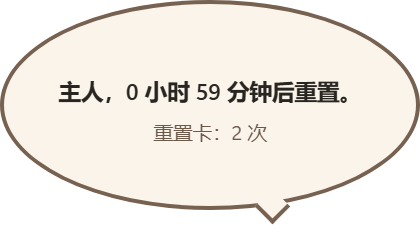
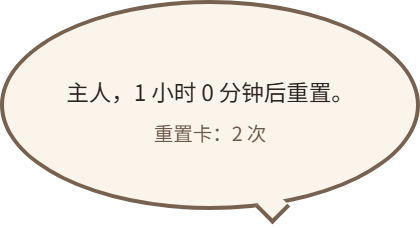
第二段对话仅显示节奏提醒并统一思源黑体

Changed region(s): [[0.1238, 0.3377, 0.8357, 0.4605], [0.3714, 0.5219, 0.5262, 0.6447], [0.5571, 0.5526, 0.65, 0.6447]]

diff --git a/desktop/ui/style.css b/desktop/ui/style.css
@@ -1,6 +1,6 @@
 :root{
   color-scheme:var(--color-scheme);
-  --font-system:-apple-system,BlinkMacSystemFont,"SF Pro Text","Segoe UI Variable Text","Segoe UI","Microsoft YaHei UI","PingFang SC",sans-serif;
+  --font-system:"Noto Sans SC","Segoe UI Variable Text","Segoe UI","PingFang SC","Microsoft YaHei UI",sans-serif;
   --space-1:4px;--space-2:8px;--space-3:12px;--space-4:16px;--space-5:20px;--space-6:24px;
   --radius-widget:12px;--radius-panel:14px;--radius-card:10px;--radius-control:8px;--radius-badge:6px;--radius-track:3px;
   --ease:cubic-bezier(.32,.72,0,1);--duration:200ms;--duration-hover:150ms;--duration-panel:240ms;
@@ -13,9 +13,9 @@
   --shadow-card:0 1px 2px rgba(0,0,0,.04),0 4px 12px rgba(0,0,0,.06);
   --shadow-panel:0 8px 32px rgba(0,0,0,.12);--shadow-character:rgba(0,0,0,.10);
 }
-html,body{margin:0;width:100%;height:100%;overflow:hidden;background:var(--clear);user-select:none;font:400 13px/1.5 var(--font-system);color:var(--text-primary);font-variant-numeric:tabular-nums}
+html,body{margin:0;width:100%;height:100%;overflow:hidden;background:var(--clear);user-select:none;font:400 13px/1.5 var(--font-system);color:var(--text-primary);font-variant-numeric:tabular-nums;font-synthesis:none}
 [hidden]{display:none!important}
-button,input,select{font:inherit;color:inherit;box-sizing:border-box}button{appearance:none;cursor:pointer}
+button,input,select,textarea{font:inherit;color:inherit;box-sizing:border-box}button{appearance:none;cursor:pointer}
 button:disabled,input:disabled{cursor:default}
 #character-panel button:disabled{color:var(--text-secondary);background:var(--bg-sunken)!important;border-color:var(--border-subtle)!important;box-shadow:none}
 button:focus-visible,input:focus-visible,select:focus-visible{outline:2px solid var(--focus-ring);outline-offset:2px}
@@ -26,7 +26,7 @@ button:focus-visible,input:focus-visible,select:focus-visible{outline:2px solid 
 #window-label{position:absolute;overflow:hidden;width:1px;height:1px;clip-path:inset(50%)}
 #widget:active{cursor:grabbing;background:var(--clear)}
 .compact-line{position:absolute;left:var(--space-1);right:var(--space-1);bottom:var(--space-1);display:flex;align-items:center;gap:var(--space-2);justify-content:center;padding:var(--space-2);background:var(--compact-surface);border:1px solid var(--border-subtle);border-radius:var(--radius-widget);box-sizing:border-box}
-.compact-line strong{font-size:15px;font-weight:600;line-height:1.25;white-space:normal;max-width:100%;font-variant-numeric:tabular-nums}
+.compact-line strong{font-size:15px;font-weight:500;line-height:1.25;white-space:normal;max-width:100%;font-variant-numeric:tabular-nums}
 .compact-line .track{flex:1;height:5px;min-width:8px}
 .track{background:var(--bg-sunken);border-radius:var(--radius-track);height:5px;overflow:hidden}
 .fill{height:100%;background:var(--accent);border-radius:inherit}.orange .fill{background:var(--warning)}.red .fill{background:var(--danger)}.unknown .fill{background:var(--clear)}
@@ -36,46 +36,46 @@ button:focus-visible,input:focus-visible,select:focus-visible{outline:2px solid 
 header{flex:none;margin-bottom:var(--space-4)}
 nav{display:grid;grid-template-columns:repeat(4,minmax(0,1fr));gap:var(--space-1);padding:var(--space-1);background:var(--bg-sunken);border-radius:var(--radius-control);min-width:0;width:100%;box-sizing:border-box}
 nav button{font-size:12px;line-height:20px;white-space:nowrap;padding:var(--space-1) var(--space-2);border:0;border-radius:var(--radius-badge);background:var(--clear);color:var(--text-secondary);transition:background-color var(--duration-hover) var(--ease)}
-nav button[aria-selected="true"]{color:var(--text-primary);background:var(--bg-elevated);font-weight:600;box-shadow:var(--shadow-card)}
+nav button[aria-selected="true"]{color:var(--text-primary);background:var(--bg-elevated);font-weight:500;box-shadow:var(--shadow-card)}
 nav button:hover{background:var(--bg-hover)}
 #close{flex:none;border:1px solid var(--border-subtle);border-radius:var(--radius-control);background:var(--bg-elevated);color:var(--text-primary);font-size:28px;line-height:40px;width:44px;height:44px;padding:0;transition:background-color var(--duration-hover) var(--ease)}
 #close:hover{background:var(--bg-hover)}
 article{padding:var(--space-3);margin-bottom:var(--space-3);border:1px solid var(--border-subtle);border-radius:var(--radius-card);background:var(--bg-elevated);box-shadow:var(--shadow-card)}
-article>strong{font-size:15px;font-weight:600;line-height:20px}
+article>strong{font-size:15px;font-weight:500;line-height:20px}
 .card-row{display:flex;justify-content:space-between;gap:var(--space-2);margin:var(--space-2) 0 var(--space-3);font-size:12px;color:var(--text-secondary);flex-wrap:wrap}
-.card-row strong{font-size:15px;font-weight:600;color:var(--text-primary);font-variant-numeric:tabular-nums}
+.card-row strong{font-size:15px;font-weight:500;color:var(--text-primary);font-variant-numeric:tabular-nums}
 #metadata,#token-coverage,#token-updated,#token-unit{font-size:12px;line-height:1.5;color:var(--text-secondary);margin:var(--space-3) 0}
 #metadata{white-space:pre-line}footer{font-size:12px;line-height:1.6;color:var(--text-secondary);padding-top:var(--space-3);border-top:1px solid var(--separator)}
 .token-header{display:flex;align-items:center;justify-content:space-between;gap:var(--space-2);margin-bottom:var(--space-1)}
-.token-heading{font-size:17px;font-weight:600;margin:0}.token-badge{font-size:12px;color:var(--text-secondary);background:var(--bg-sunken);padding:var(--space-1) var(--space-2);border-radius:var(--radius-badge)}
+.token-heading{font-size:17px;font-weight:500;margin:0}.token-badge{font-size:12px;color:var(--text-secondary);background:var(--bg-sunken);padding:var(--space-1) var(--space-2);border-radius:var(--radius-badge)}
 #token-unit{margin:0 0 var(--space-2)}#token-chart{display:grid;gap:var(--space-3);padding:var(--space-3);background:var(--bg-elevated);border:1px solid var(--border-subtle);border-radius:var(--radius-card);box-shadow:var(--shadow-card)}
 .token-column{min-width:0;display:flex;flex-direction:column;gap:var(--space-3);padding:var(--space-3);background:var(--bg-elevated);border:1px solid var(--border-subtle);border-radius:var(--radius-card);box-shadow:var(--shadow-card)}
 .token-plot{grid-column:1/-1;height:6px;border-radius:var(--radius-track);overflow:hidden;background:var(--bg-sunken)}
 .token-bar{height:100%;background:var(--accent);border-radius:inherit}
-.token-value{display:flex;align-items:baseline;gap:var(--space-1);min-width:0;white-space:nowrap;font-variant-numeric:tabular-nums}.token-number{font-size:26px;line-height:32px;font-weight:600;letter-spacing:-.7px}.token-scale{font-size:13px;font-weight:400;color:var(--text-secondary)}.token-dense .token-number{font-size:18px;letter-spacing:-.4px}
+.token-value{display:flex;align-items:baseline;gap:var(--space-1);min-width:0;white-space:nowrap;font-variant-numeric:tabular-nums}.token-number{font-size:26px;line-height:32px;font-weight:500;letter-spacing:-.7px}.token-scale{font-size:13px;font-weight:400;color:var(--text-secondary)}.token-dense .token-number{font-size:18px;letter-spacing:-.4px}
 .token-label{font-size:12px;color:var(--text-secondary);white-space:nowrap}#token-statement{margin-top:var(--space-4)}
 .panel-toolbar{display:flex;align-items:center;justify-content:space-between;gap:var(--space-2);margin-bottom:var(--space-2)}
-.panel-title{font-size:18px;font-weight:600}
+.panel-title{font-size:18px;font-weight:500}
 .data-notes{margin-top:var(--space-2);font-size:12px;color:var(--text-secondary)}.data-notes summary{cursor:pointer;color:var(--accent-ink)}.data-notes p{margin:var(--space-2) 0 0;line-height:1.6}
 .character-actions{display:flex;flex-wrap:wrap;gap:var(--space-2);margin:var(--space-3) 0}
 #character-panel button{border:1px solid var(--border-subtle);border-radius:var(--radius-control);background:var(--bg-elevated);padding:var(--space-2) var(--space-3);line-height:20px;transition:background-color var(--duration-hover) var(--ease),transform var(--duration) var(--ease)}
 #character-panel button:hover{background:var(--bg-hover)}
 #character-panel button:active,#close:active{transform:scale(.97)}
 #character-panel button[aria-pressed="true"]{color:var(--accent-ink);background:var(--accent-soft);border-color:var(--accent)}
-#character-upload{width:100%;color:var(--accent-contrast);background:var(--accent)!important;border-color:var(--accent)!important;font-weight:600}
+#character-upload{width:100%;color:var(--accent-contrast);background:var(--accent)!important;border-color:var(--accent)!important;font-weight:500}
 #character-upload:hover{background:var(--accent-hover)!important}
 #character-list{display:flex;flex-wrap:wrap;gap:var(--space-2)}
 .character-option{display:flex;align-items:center;gap:var(--space-2);margin:var(--space-4) 0;font-size:13px}
-.character-option input[type="range"]{flex:1;min-width:60px;max-width:160px;accent-color:var(--accent)}.character-option output{font-variant-numeric:tabular-nums;font-size:15px;font-weight:600;white-space:nowrap}.character-option input[type="checkbox"]{accent-color:var(--accent);width:16px;height:16px;margin:0}
+.character-option input[type="range"]{flex:1;min-width:60px;max-width:160px;accent-color:var(--accent)}.character-option output{font-variant-numeric:tabular-nums;font-size:15px;font-weight:500;white-space:nowrap}.character-option input[type="checkbox"]{accent-color:var(--accent);width:16px;height:16px;margin:0}
 .character-previews{display:flex;gap:var(--space-2)}.character-previews figure{margin:0;flex:1;min-width:0;text-align:center;font-size:12px;color:var(--text-secondary)}
 .character-previews img,.character-previews canvas{width:100%;height:112px;object-fit:contain;background:repeating-conic-gradient(var(--checker-a) 0% 25%,var(--checker-b) 0% 50%) 0 / 12px 12px;border:1px solid var(--border-subtle);border-radius:var(--radius-control);box-sizing:border-box}
 .character-previews canvas{cursor:move;touch-action:none}.character-previews figcaption{margin-top:var(--space-1)}
 #character-processing,.character-help{font-size:12px;color:var(--text-secondary);line-height:1.5;margin:var(--space-2) 0}
 #character-error,#appearance-error{font-size:12px;color:var(--danger-ink);line-height:1.5;margin:var(--space-2) 0}#character-error:empty,#appearance-error:empty{display:none}
 #character-notice{margin-top:var(--space-4)}
-.appearance-heading{font-size:15px;font-weight:600;margin:0 0 var(--space-1)}.appearance-intro,.appearance-note{font-size:12px;color:var(--text-secondary);margin:0 0 var(--space-4)}
-.appearance-group{margin:0 0 var(--space-4);padding:0;border:0;min-width:0}.appearance-group legend{font-size:13px;font-weight:600;margin-bottom:var(--space-2);padding:0}
-.palette-options{display:grid;grid-template-columns:repeat(2,minmax(0,1fr));gap:var(--space-3)} .palette-choice{position:relative;display:flex;flex-direction:column;align-items:flex-start;gap:var(--space-1);min-width:0;text-align:left;padding:var(--space-2);border:1px solid var(--border-subtle);border-radius:var(--radius-card);background:var(--bg-elevated);color:var(--text-primary);box-shadow:var(--shadow-card);transition:background-color var(--duration-hover) var(--ease)} .palette-choice:hover{background:var(--bg-hover)} .palette-choice[aria-pressed="true"]{outline:2px solid var(--accent);outline-offset:1px} .palette-choice[aria-pressed="true"]::after{content:"✓";position:absolute;top:var(--space-2);right:var(--space-2);display:grid;place-items:center;width:20px;height:20px;border-radius:50%;font-size:12px;background:var(--accent);color:var(--accent-contrast)} .palette-preview{height:28px;width:100%;margin-bottom:var(--space-1);border-radius:var(--radius-control);background:linear-gradient(125deg,var(--palette-base) 0% 65%,var(--palette-accent) 65% 100%)} .palette-choice strong{font-size:15px;font-weight:600}.palette-pair{font-size:12px;color:var(--text-secondary)} .appearance-note{margin-top:var(--space-3)}
+.appearance-heading{font-size:15px;font-weight:500;margin:0 0 var(--space-1)}.appearance-intro,.appearance-note{font-size:12px;color:var(--text-secondary);margin:0 0 var(--space-4)}
+.appearance-group{margin:0 0 var(--space-4);padding:0;border:0;min-width:0}.appearance-group legend{font-size:13px;font-weight:500;margin-bottom:var(--space-2);padding:0}
+.palette-options{display:grid;grid-template-columns:repeat(2,minmax(0,1fr));gap:var(--space-3)} .palette-choice{position:relative;display:flex;flex-direction:column;align-items:flex-start;gap:var(--space-1);min-width:0;text-align:left;padding:var(--space-2);border:1px solid var(--border-subtle);border-radius:var(--radius-card);background:var(--bg-elevated);color:var(--text-primary);box-shadow:var(--shadow-card);transition:background-color var(--duration-hover) var(--ease)} .palette-choice:hover{background:var(--bg-hover)} .palette-choice[aria-pressed="true"]{outline:2px solid var(--accent);outline-offset:1px} .palette-choice[aria-pressed="true"]::after{content:"✓";position:absolute;top:var(--space-2);right:var(--space-2);display:grid;place-items:center;width:20px;height:20px;border-radius:50%;font-size:12px;background:var(--accent);color:var(--accent-contrast)} .palette-preview{height:28px;width:100%;margin-bottom:var(--space-1);border-radius:var(--radius-control);background:linear-gradient(125deg,var(--palette-base) 0% 65%,var(--palette-accent) 65% 100%)} .palette-choice strong{font-size:15px;font-weight:500}.palette-pair{font-size:12px;color:var(--text-secondary)} .appearance-note{margin-top:var(--space-3)}
 #details{font-size:15px;container-type:inline-size}
 nav button{font-size:14px;min-height:40px;min-width:0;padding:var(--space-2) var(--space-1);overflow:hidden;text-overflow:ellipsis}
 article>strong,.appearance-heading{font-size:17px} .card-row,.token-label,.data-notes,footer,#metadata,#token-coverage,#token-updated,#token-unit,.appearance-intro,.appearance-note,.character-help{font-size:14px}
@@ -90,7 +90,7 @@ article>strong,.appearance-heading{font-size:17px} .card-row,.token-label,.data-
 @media(prefers-reduced-motion:reduce){*,*::before,*::after{animation:none!important;transition:none!important}}
 :root.theme-changing *{transition:none!important}
 #settings-open{flex:none;width:30px;height:30px;padding:0;border:0;border-radius:8px;background:var(--bg-elevated);color:var(--accent-ink);font-size:22px;line-height:1;cursor:pointer;touch-action:manipulation}#settings-open:hover{background:var(--bg-hover)}
-.dialogue-settings{margin:0 0 20px;padding:16px;border:1px solid var(--border-subtle);border-radius:var(--radius-card);background:var(--bg-elevated)}.dialogue-settings legend{font-weight:600;padding:0 4px}.dialogue-settings label{display:flex;flex-direction:column;gap:6px;margin-bottom:12px}.dialogue-settings input,.dialogue-settings textarea{width:100%;box-sizing:border-box;background:var(--bg-base);color:var(--text-primary);font:inherit;border:1px solid var(--border-subtle);border-radius:8px;padding:8px;user-select:text}.dialogue-settings textarea{resize:vertical;max-height:200px}.dialogue-settings button{padding:8px 16px;border:0;border-radius:8px;background:var(--accent);color:var(--accent-contrast)}#dialogue-message{margin:6px 0 0;font-size:12px}
+.dialogue-settings{margin:0 0 20px;padding:16px;border:1px solid var(--border-subtle);border-radius:var(--radius-card);background:var(--bg-elevated)}.dialogue-settings legend{font-weight:500;padding:0 4px}.dialogue-settings label{display:flex;flex-direction:column;gap:6px;margin-bottom:12px}.dialogue-settings input,.dialogue-settings textarea{width:100%;box-sizing:border-box;background:var(--bg-base);color:var(--text-primary);font:inherit;border:1px solid var(--border-subtle);border-radius:8px;padding:8px;user-select:text}.dialogue-settings textarea{resize:vertical;max-height:200px}.dialogue-settings button{padding:8px 16px;border:0;border-radius:8px;background:var(--accent);color:var(--accent-contrast)}#dialogue-message{margin:6px 0 0;font-size:12px}
 .panel-toolbar{flex:none}.language-setting{display:flex;align-items:center;justify-content:space-between;gap:var(--space-3);margin-bottom:var(--space-4);color:var(--text-secondary)}.language-setting select{border:1px solid var(--border-subtle);border-radius:var(--radius-control);background:var(--bg-elevated);color:var(--text-primary);padding:var(--space-2) var(--space-3);min-height:40px}
 .panel-sizebar{flex:none;display:flex;align-items:center;justify-content:space-between;gap:var(--space-2);padding-top:var(--space-2);color:var(--text-secondary);font-size:12px}.panel-sizebar button{width:32px;height:32px;flex:none;border:1px solid var(--border-subtle);border-radius:var(--radius-control);background:var(--bg-elevated);color:var(--text-primary);font-size:20px;cursor:nwse-resize;touch-action:none}.panel-sizebar button:hover{background:var(--bg-hover)}#panel-error{font-size:12px;color:var(--danger-ink);margin:0 0 var(--space-2)}#panel-error:empty{display:none}
 
@@ -99,4 +99,5 @@ article>strong,.appearance-heading{font-size:17px} .card-row,.token-label,.data-
 
 #speech{position:absolute;box-sizing:border-box;overflow:hidden;display:flex;flex-direction:column;justify-content:center;text-align:center;padding:22px 28px 26px;background:var(--clear);color:var(--text-primary);font-size:15px;line-height:1.5}
 #speech::before{content:"";position:absolute;inset:0 0 12px;border:3px solid var(--accent);border-radius:50%;background:var(--bg-elevated)}#speech::after{content:"";position:absolute;right:90px;bottom:6px;width:14px;height:14px;transform:rotate(45deg);background:var(--bg-elevated);border-right:3px solid var(--accent);border-bottom:3px solid var(--accent)}#speech>*{position:relative;z-index:1}
-#speech-text{flex:0 1 auto;min-height:0;max-height:66px;overflow:auto;overflow-wrap:anywhere;white-space:pre-wrap;margin:0 0 6px;font-size:15px;font-weight:600}.speech-data{display:flex;flex-direction:column;gap:3px;flex:none;font-size:13px;color:var(--accent-ink)}
+#speech-text{flex:0 1 auto;min-height:0;max-height:66px;overflow:auto;overflow-wrap:anywhere;white-space:pre-wrap;margin:0 0 6px;font-size:15px;font-weight:400}.speech-data{display:flex;flex-direction:column;gap:3px;flex:none;font-size:13px;color:var(--accent-ink)}
+#speech.dialogue-only #speech-text{margin:0}

diff --git a/desktop/ui/renderer.js b/desktop/ui/renderer.js
@@ -43,6 +43,9 @@ gear.addEventListener('pointerdown',event=>event.stopPropagation());
 gear.addEventListener('click',event=>{event.stopPropagation();window.widget.openSettings();});
 function renderSpeech(){
   if(speech.hidden)return;
+  const dialogueOnly=speechIndex===1;
+  speech.classList.toggle('dialogue-only',dialogueOnly);
+  document.querySelector('.speech-data').hidden=dialogueOnly;
   const view=window.dialogueModel.present(dialoguePreferences,speechIndex,quota,Date.now(),window.uiText.language);
   document.getElementById('speech-text').textContent=view.line;
   document.getElementById('speech-reset').textContent=view.reset;

diff --git a/docs/dialogue-settings-position-verification.md b/docs/dialogue-settings-position-verification.md
@@ -6,6 +6,7 @@
 
 - 点击立绘轮换两段对话，不再打开四页卡片。保留点击计数、220ms 渲染层反馈及拖动。
 - 气泡为 **280×152 DIP 的小椭圆**，默认第一段“主人，{重置时间}。”，下方显示可用重置卡次数；不重复百分比、标题或倒计时。第二段默认“主人，额度消耗好快呀，记得歇一歇。”。
+- 第二段只显示节奏提醒，不显示公共倒计时或重置卡信息栏；第三次点击回到第一段时恢复该信息栏。自定义两段文案仍按用户设置保留。
 - 底部额度长条后的齿轮打开“挂件设置”，保留额度管理、token 用量、角色、外观四页及尺寸、语言、主题功能。气泡和设置互斥。
 - 角色页的“编辑对话”可修改称呼和两段文案。使用本机原生输入对话框以支持键盘与中文输入法，不取消常驻挂件的 80ms 焦点恢复。称呼上限32字、每段240字；本机 `dialogue-preferences.json` 原子保存，不覆盖角色、素材或位置文件。自定义文案按原文保留，不因语言切换而重写。
 - 支持 `{称呼}`、`{重置时间}`、`{重置卡次数}`，也保留可选的 `{剩余额度}` 替换；默认第一段不使用剩余额度。
@@ -74,3 +75,28 @@
 ![简洁椭圆气泡](images/dialogue-bubble.png)
 
 ![保留四页的设置卡片](images/dialogue-settings-card.png)
+
+## 第二段信息栏与字体修订
+
+日期：2026-10-10，修订基线 `f78e9a8`。
+
+根因：`renderSpeech()` 无论当前是哪段对话都渲染公共 `.speech-data`，因而第二段节奏提醒也附带倒计时和重置卡。现按 `speechIndex === 1` 隐藏整个公共信息栏，正文居中；再次切回第一段时恢复。未改动几何、shape、点击计数、设置入口或拖动处理。
+
+界面统一采用本机已安装的 **Noto Sans SC（思源黑体）**，覆盖气泡、常驻额度数字、四页设置、按钮和输入框；未安装该字体的机器按本机字体栈回退，不下载字体。正文及气泡为400常规字重，标题、选中页签及关键数字从600减为500，禁用合成粗体。原生“编辑对话”也使用 Noto Sans SC 10pt Regular，缺失时回退 Microsoft YaHei UI；已验证本机实际创建出的字体为 Noto Sans SC / Regular，并通过 PowerShell 语法解析。原生输入/中文输入法体验仍待用户确认。
+
+可复现检查：
+
+```powershell
+powershell.exe -NoProfile -ExecutionPolicy Bypass -File tests/Invoke-CardSmoke.ps1
+powershell.exe -NoProfile -ExecutionPolicy Bypass -File tests/Invoke-PopupSmoke.ps1
+powershell.exe -NoProfile -ExecutionPolicy Bypass -File scripts/verify.ps1 -Native
+```
+
+- 回归测试先在旧代码明确失败：第二段信息栏实际 `display:flex`，预期 `none`。修订后真实 Electron renderer 点击第一→第二→第一全部通过：第二段 `display:none`，第一段恢复 `display:flex`，3次点击计数；气泡仍为280×152，第二段 region 与第一段逐字段相同。
+- 气泡 computed font family 首选 Noto Sans SC，正文 weight400。卡片关闭按钮44×44、四个等宽页签、480×560→620×720指针调节、640×720保存、中英文切换、角色页滚轮及小视口夹紧通过。
+- 四个页签无横向溢出；token 大数值在三种测试配色下无溢出；主题变化0次shape调用。已检查下方更新的气泡和设置截图，使用隔离测试数据及自由分发几何占位图。
+- **85/85** 单元回归通过，**10例**真实 Electron 异常shape回退通过（144 DPI下原生region为2×2物理像素，即1×1 DIP）。不以这些检查替代尚待验收的实机鼠标焦点、穿透和最小化循环。
+
+本轮仅修改渲染和字体及其验收文件，没有新增网络路径或图片上传；没有运行 `codex exec` / `review`，未重复10分钟静置观察。
+
+交付：停挂件后标准 `codex plugin add` 仍返回缓存备份拒绝访问（Windows error5），已将8个变更缓存文件备份后逐文件同步。源码与缓存 **161/161 SHA256一致**，无额外文件（忽略.git），报告 `dialogue-font-cache-hashes.json`。新版实际从缓存启动，PID18908，visible:true、attached:true、focused:false；位置仍为 `(1483,715)`。没有删除用户文件或结束其他 MCP 进程。
